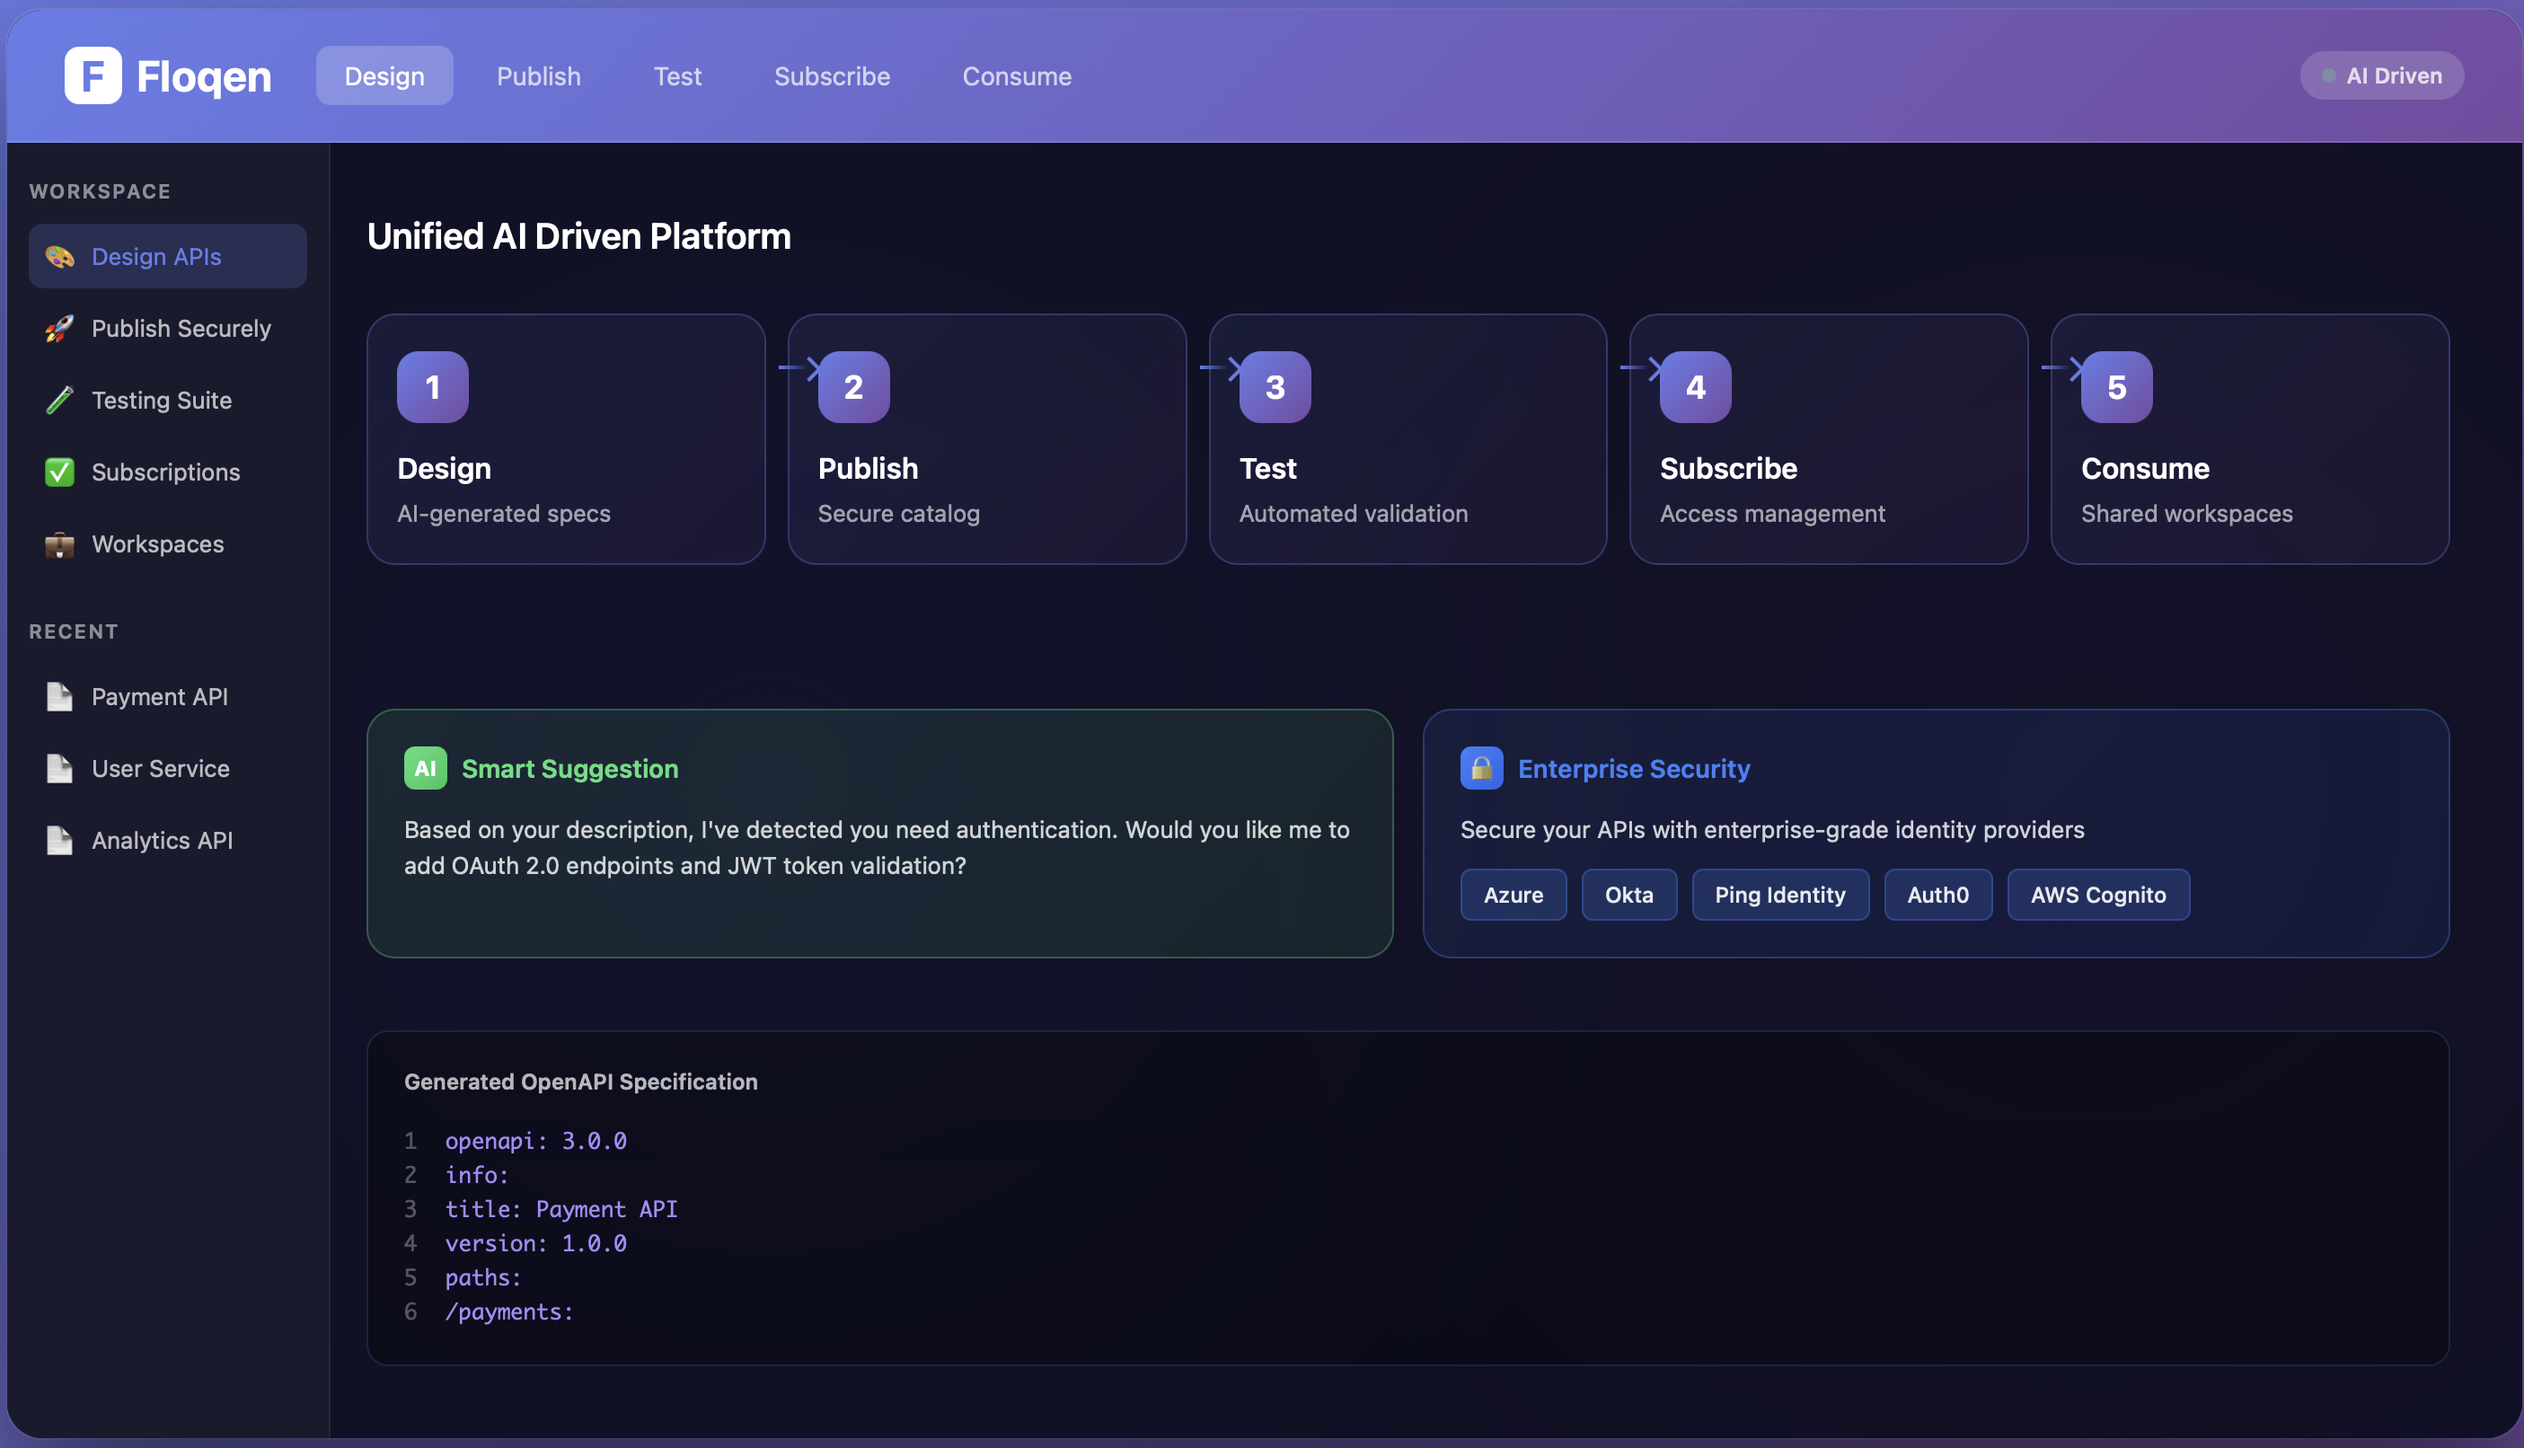
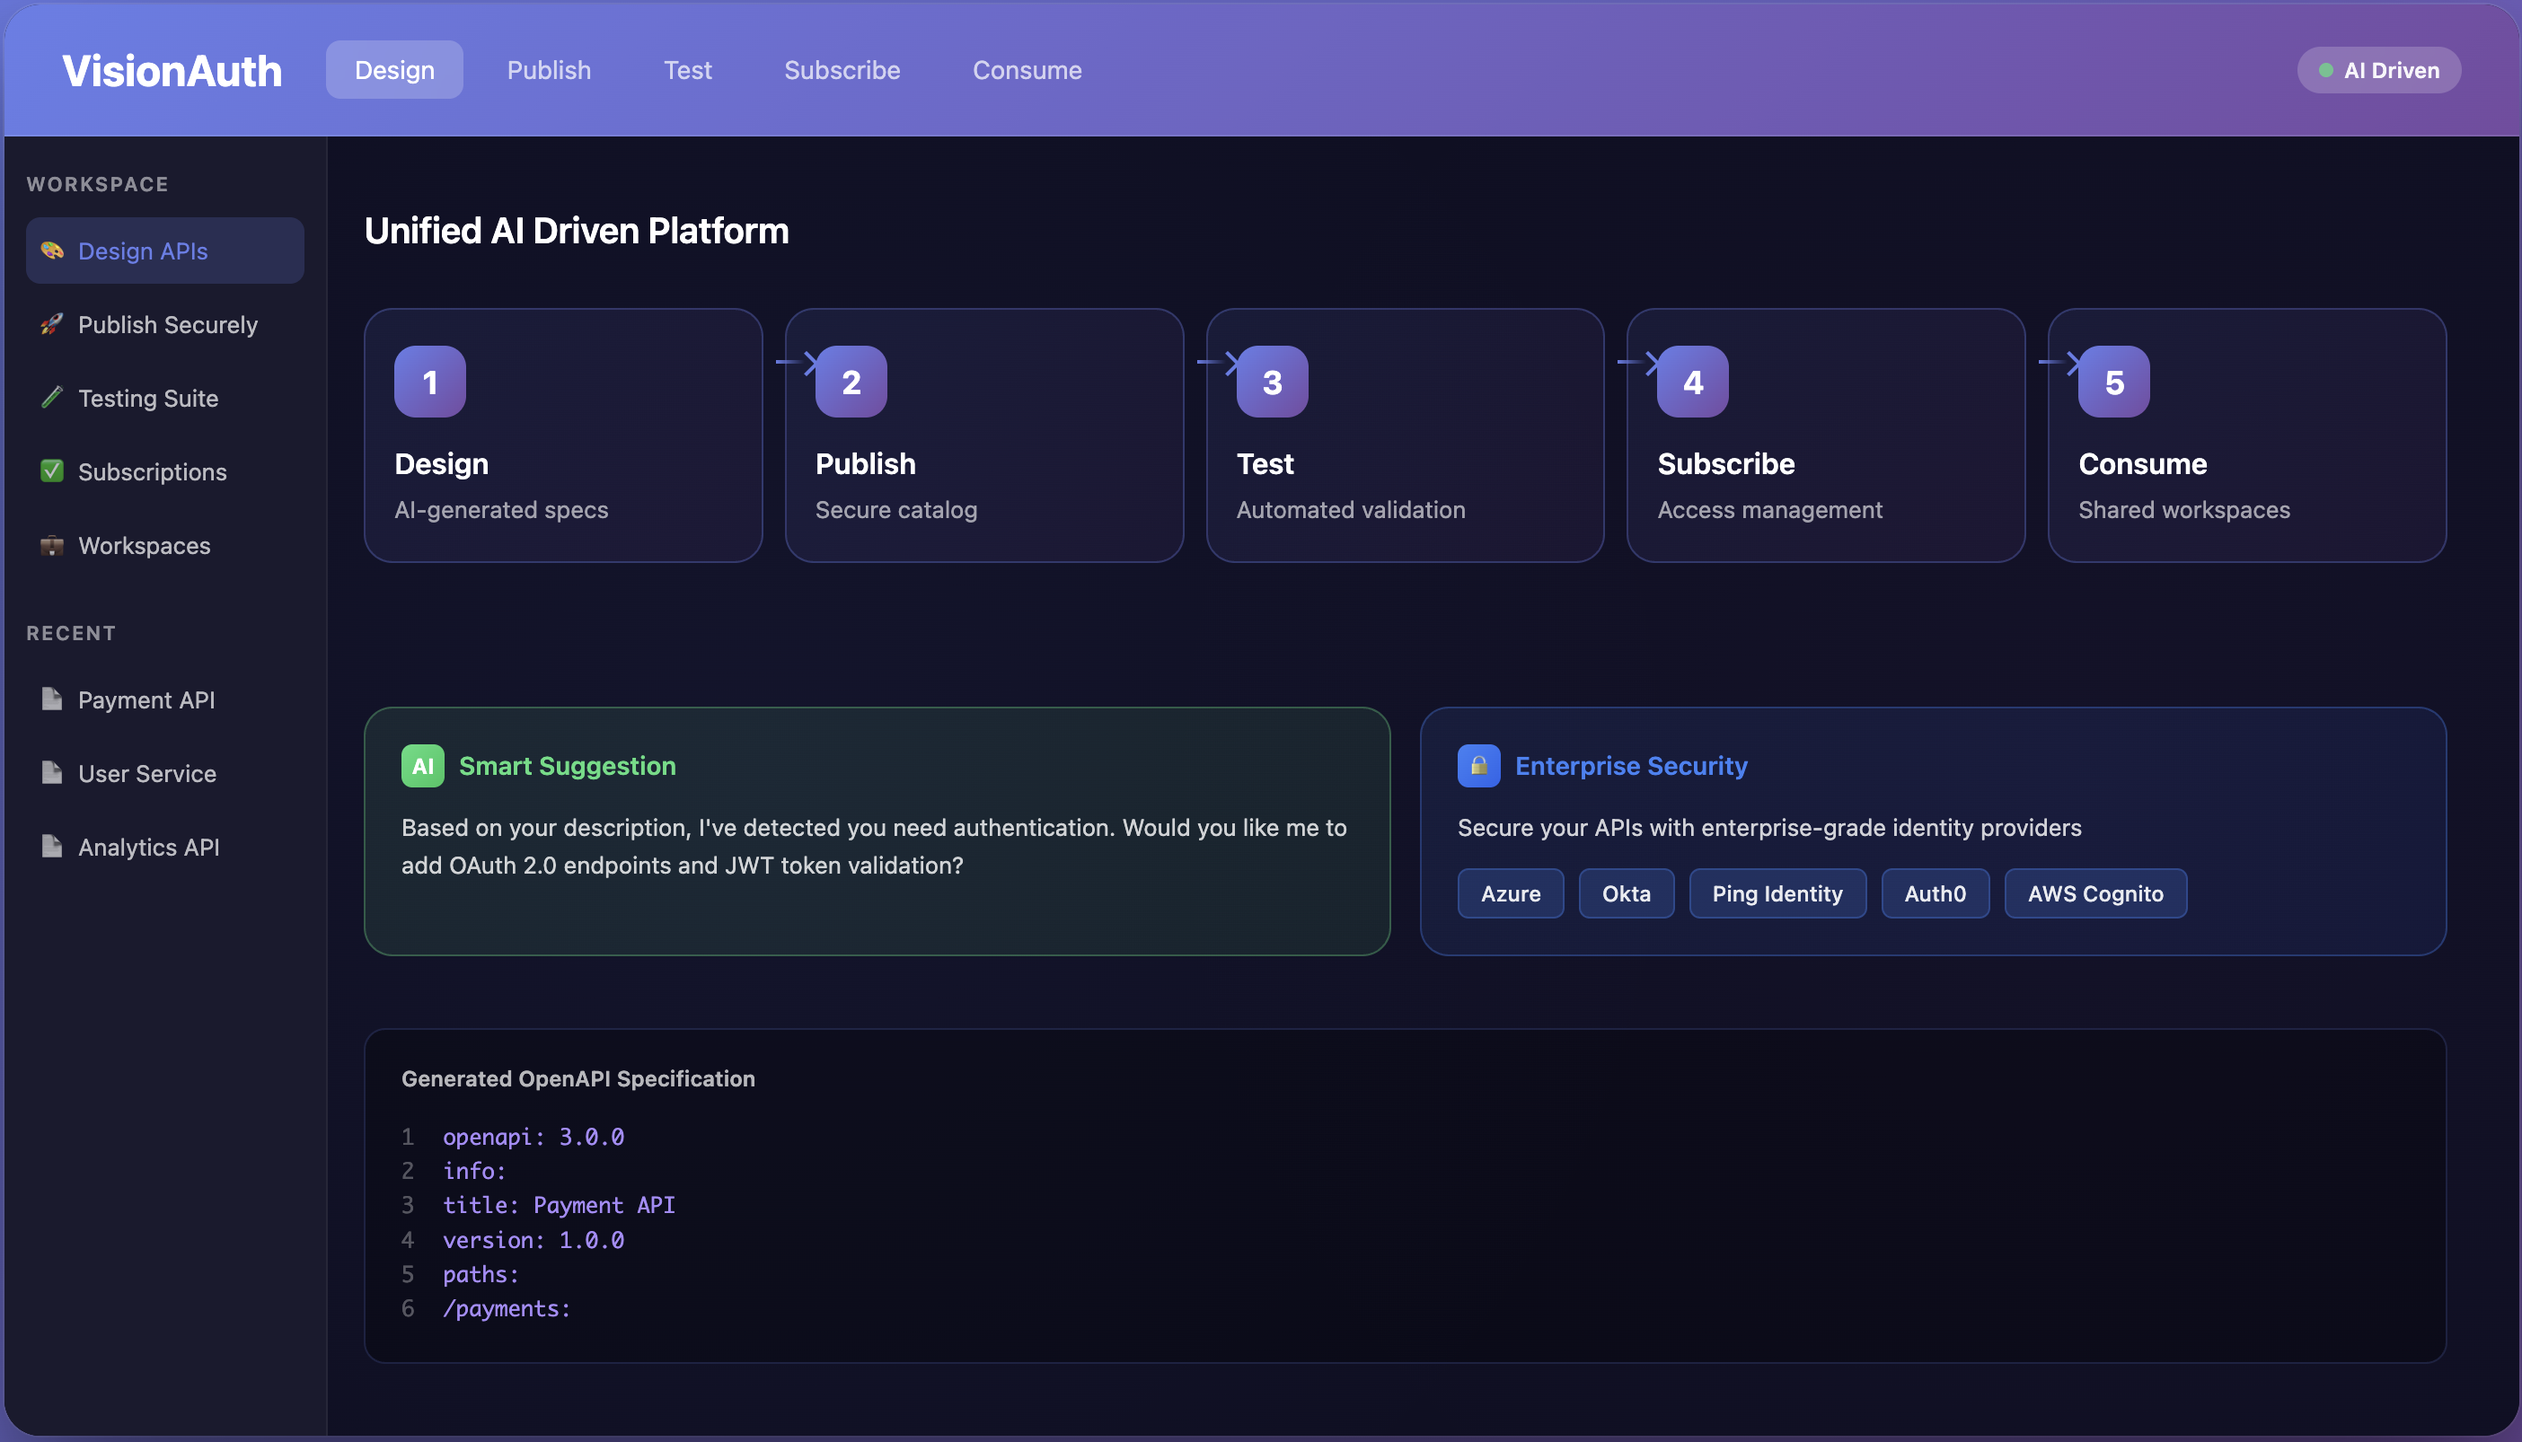
rebrand

diff --git a/src/components/EarlyAccessModal.jsx b/src/components/EarlyAccessModal.jsx
@@ -41,7 +41,7 @@ function EarlyAccessModal({ open, onClose }) {
     setSubmitMessage('')
     if (!validate()) return
     const FORMSPREE_ID =
-      (typeof window !== 'undefined' && window.FLOQEN_FORMSPREE_ID) ||
+      (typeof window !== 'undefined' && window.VISIONAUTH_FORMSPREE_ID) ||
       import.meta.env.VITE_FORMSPREE_ID ||
       'REPLACE_WITH_FORMSPREE_ID'
     if (!FORMSPREE_ID || FORMSPREE_ID.includes('REPLACE_WITH')) {
@@ -56,7 +56,7 @@ function EarlyAccessModal({ open, onClose }) {
       fullName: form.fullName,
       company: form.company,
       phone: form.phone,
-      _subject: 'Floqen Early Access Request',
+      _subject: 'VisionAuth Early Access Request',
       _format: 'json',
     }
     try {
@@ -69,7 +69,7 @@ function EarlyAccessModal({ open, onClose }) {
       if (!res.ok) throw new Error('Request failed')
       setSubmitting(false)
       setSuccess(true)
-      setSubmitMessage('Thank you — the Floqen team will review your request and get back to you shortly.')
+      setSubmitMessage('Thank you — the VisionAuth team will review your request and get back to you shortly.')
     } catch (err) {
       setSubmitting(false)
       setSubmitMessage('Something went wrong. Please try again.')

diff --git a/src/components/ProblemSolution.jsx b/src/components/ProblemSolution.jsx
@@ -84,7 +84,7 @@ function ProblemSolution() {
             </div>
             <h3 className="ps-title">The Solution</h3>
             <p className="ps-text">
-              Floqen replaces this fragmentation with a single AI-driven platform that brings every phase from design to approval together. By embedding AI-driven design, adaptive testing, and intelligent governance into each step, Floqen eliminates tool sprawl, streamlines collaboration, and delivers APIs that are born secure, continuously optimized, and ready to evolve.
+              VisionAuth replaces this fragmentation with a single AI-driven platform that brings every phase from design to approval together. By embedding AI-driven design, adaptive testing, and intelligent governance into each step, VisionAuth eliminates tool sprawl, streamlines collaboration, and delivers APIs that are born secure, continuously optimized, and ready to evolve.
             </p>
           </div>
         </div>

diff --git a/src/components/Hero.jsx b/src/components/Hero.jsx
@@ -15,10 +15,10 @@ function Hero({ onOpenEarlyAccess }) {
           <div className="hero-text">
             <h1 className="hero-headline">Where APIs are born secure</h1>
             <p className="hero-subtext tagline">Design → Publish Securely → Test → Subscribe → Consume</p>
-            <p className="hero-subtext">Floqen unifies the entire API lifecycle into a single AI-driven platform.</p>
+            <p className="hero-subtext">VisionAuth unifies the entire API lifecycle into a single AI-driven platform.</p>
             <div className="hero-mockup">
               <div className="mockup-frame">
-                <img src={productMockup} alt="Floqen product mockup" className="mockup-img" />
+                <img src={productMockup} alt="VisionAuth product mockup" className="mockup-img" />
               </div>
             </div>
             <div className="hero-ctas">

diff --git a/index.html b/index.html
@@ -3,7 +3,7 @@
   <head>
     <meta charset="UTF-8" />
     <meta name="viewport" content="width=device-width, initial-scale=1.0" />
-    <title>Floqen - Where APIs are born secure</title>
+    <title>VisionAuth - Where APIs are born secure</title>
     <link rel="preconnect" href="https://fonts.googleapis.com">
     <link rel="preconnect" href="https://fonts.gstatic.com" crossorigin>
     <link href="https://fonts.googleapis.com/css2?family=Inter:wght@300;400;500;600;700;800&display=swap" rel="stylesheet">
@@ -12,7 +12,7 @@
     <div id="root"></div>
     <script>
       // Early Access form endpoint (Formspree)
-      window.FLOQEN_FORMSPREE_ID = 'mqawzdbz';
+      window.VISIONAUTH_FORMSPREE_ID = 'mqawzdbz';
     </script>
     <script type="module" src="/src/main.jsx"></script>
   </body>

diff --git a/src/components/Nav.jsx b/src/components/Nav.jsx
@@ -40,7 +40,7 @@ function Nav({ onOpenEarlyAccess }) {
           <a href="#integrations" className="nav-link">Integrations</a>
         </div>
         <div className="nav-logo">
-          <span className="logo-text">FLOQEN</span>
+          <span className="logo-text">VisionAuth</span>
         </div>
         <div className="nav-right">
           <a href="#about" className="nav-link">About</a>
@@ -64,7 +64,7 @@ function Nav({ onOpenEarlyAccess }) {
       >
         <div className="mobile-inner">
           <div className="mobile-header">
-            <span className="logo-text">FLOQEN</span>
+            <span className="logo-text">VisionAuth</span>
             <button
               className="nav-close"
               aria-label="Close menu"

diff --git a/src/assets/product_mockup.html b/src/assets/product_mockup.html
@@ -3,7 +3,7 @@
 <head>
     <meta charset="UTF-8">
     <meta name="viewport" content="width=device-width, initial-scale=1.0">
-    <title>Floqen API Platform Mockup</title>
+    <title>VisionAuth API Platform Mockup</title>
     <style>
         * {
             margin: 0;
@@ -470,8 +470,7 @@
                 <div class="mockup-header">
                     <div class="header-left">
                         <div class="logo">
-                            <div class="logo-icon">F</div>
-                            Floqen
+                            VisionAuth
                         </div>
                         <div class="nav-tabs">
                             <div class="nav-tab active">Design</div>

diff --git a/src/components/Footer.jsx b/src/components/Footer.jsx
@@ -7,7 +7,7 @@ function Footer() {
       <div className="container">
         <div className="footer-content">
           <div className="footer-brand">
-            <span className="footer-logo">Floqen</span>
+            <span className="footer-logo">VisionAuth</span>
             <p className="footer-tagline">Where APIs are born secure</p>
           </div>
         </div>

diff --git a/vite.config.js b/vite.config.js
@@ -2,7 +2,7 @@ import { defineConfig } from 'vite'
 import react from '@vitejs/plugin-react'
 
 export default defineConfig({
-  base: '/Floqen/',
+  base: '',
   plugins: [react()],
 })
 
